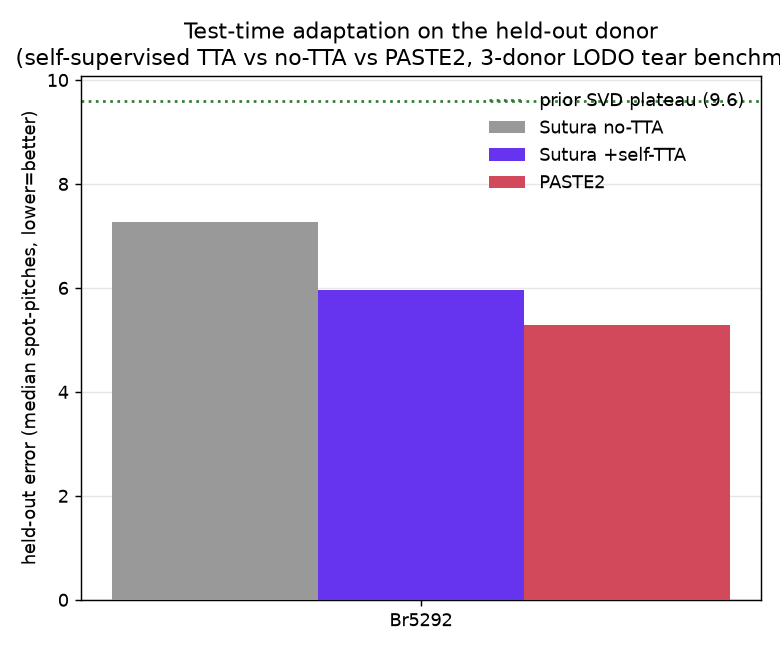
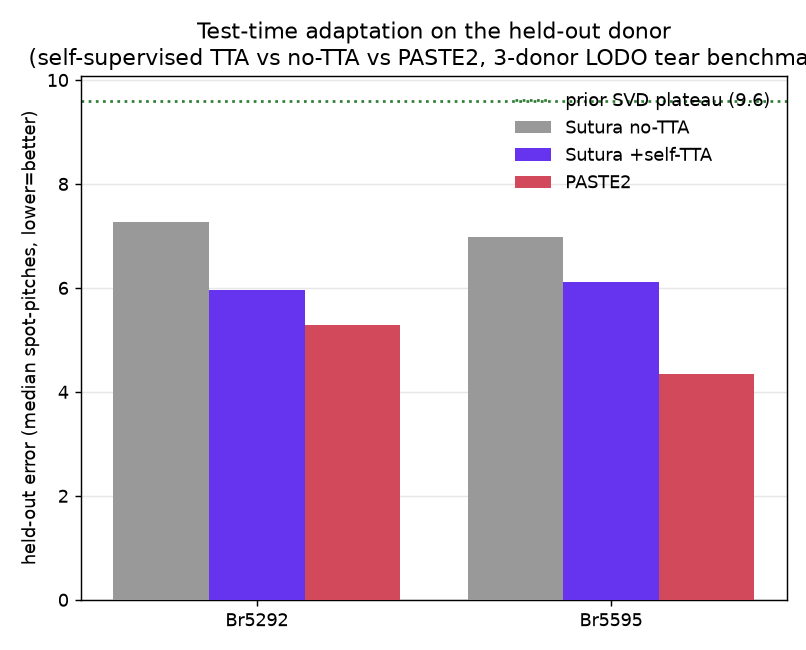
auto-sync 2026-07-10T21:44:25

diff --git a/research/FINDINGS_tta_lodo_scvi_head.md b/research/FINDINGS_tta_lodo_scvi_head.md
@@ -1,11 +1,11 @@
 # Test-time adaptation on the held-out donor - LODO tear benchmark
 
-_Generated 2026-07-11T02:19:36Z on branch `foundation-features`._
+_Generated 2026-07-11T02:43:48Z on branch `foundation-features`._
 
 **Question.** The foundation-features experiment showed the cross-donor gap is an ALIGNER problem, not a feature problem. Does adapting the trained aligner to the held-out donor at inference - self-supervised, on the donor's own section geometry, no target correspondence used - close the gap to PASTE2?
 
 
-**Headline.** Self-supervised TTA moves held-out error 7.28 -> 5.96 pitches (PASTE2 5.28). It **narrows the gap but does NOT reach PASTE2** (-1.32 vs no-TTA, +0.68 vs PASTE2; 0/1 folds beat PASTE2).
+**Headline.** Self-supervised TTA moves held-out error 7.13 -> 6.04 pitches (PASTE2 4.81). It **narrows the gap but does NOT reach PASTE2** (-1.09 vs no-TTA, +1.22 vs PASTE2; 0/2 folds beat PASTE2).
 
 
 ## Per-fold
@@ -13,6 +13,7 @@ _Generated 2026-07-11T02:19:36Z on branch `foundation-features`._
 | held-out donor | no-TTA | +self-TTA | delta | PASTE2 | beats PASTE2 | in-dist | TTA steps |
 |---|---|---|---|---|---|---|---|
 | Br5292 | 7.277 | 5.956 | -1.321 | 5.28 | False | 2.748 | 360 |
+| Br5595 | 6.981 | 6.121 | -0.86 | 4.35 | False | 2.733 | 360 |
 
 Reference: prior SVD plateau 9.6, inductive SVD no-TTA mean was ~8.26 pitches.
 
